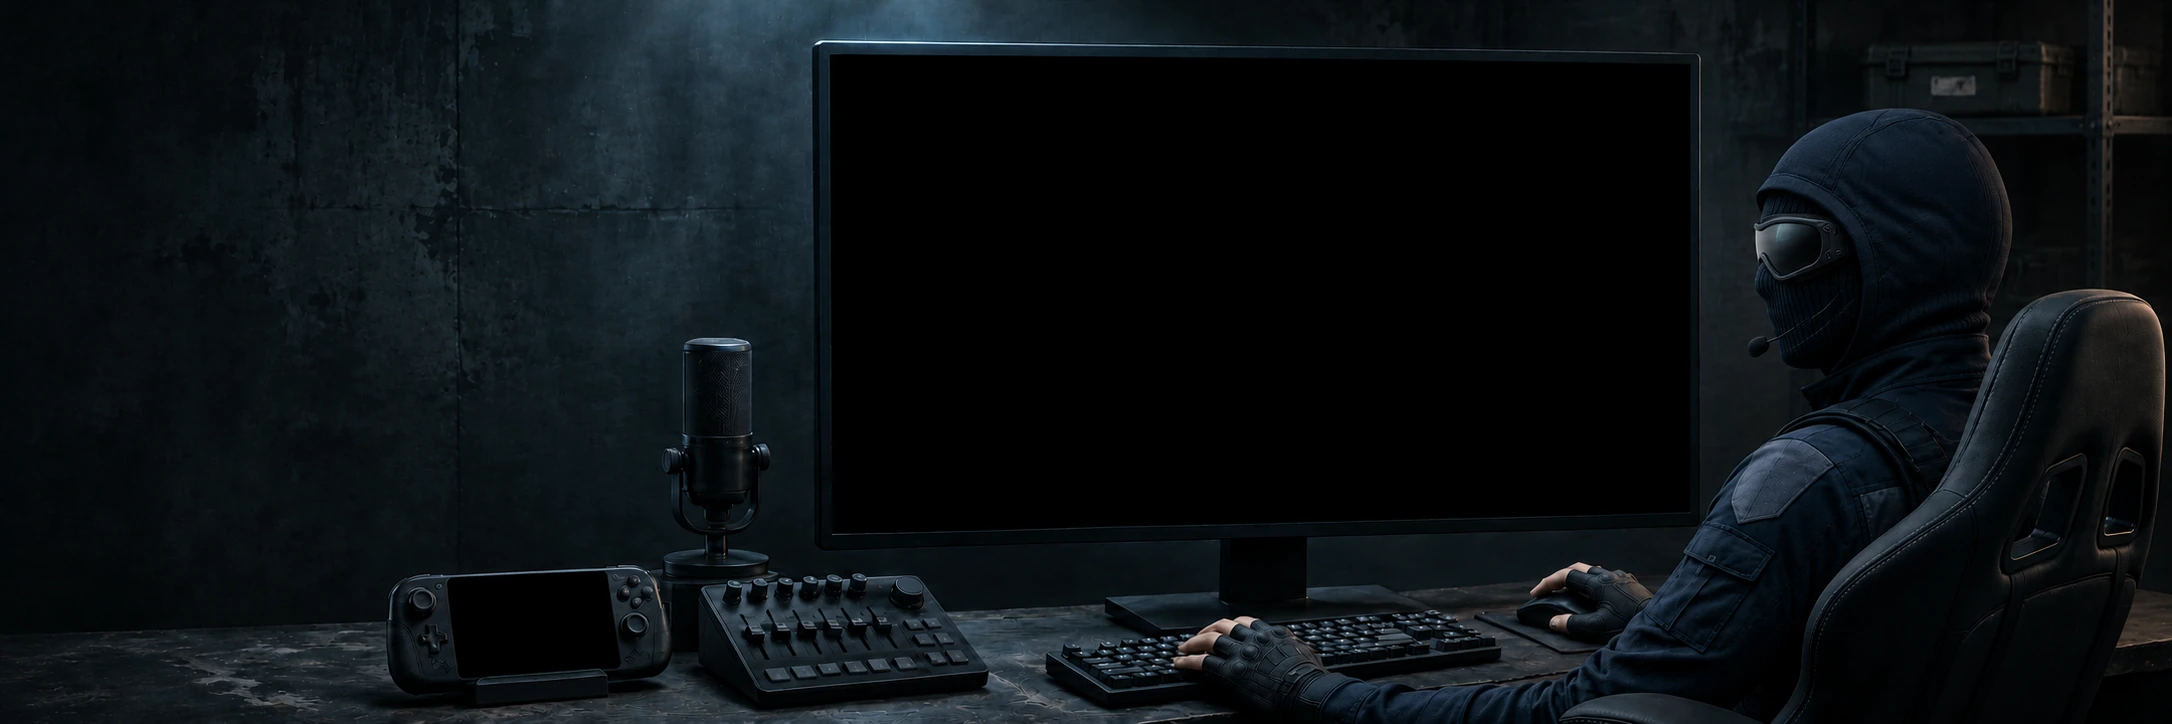
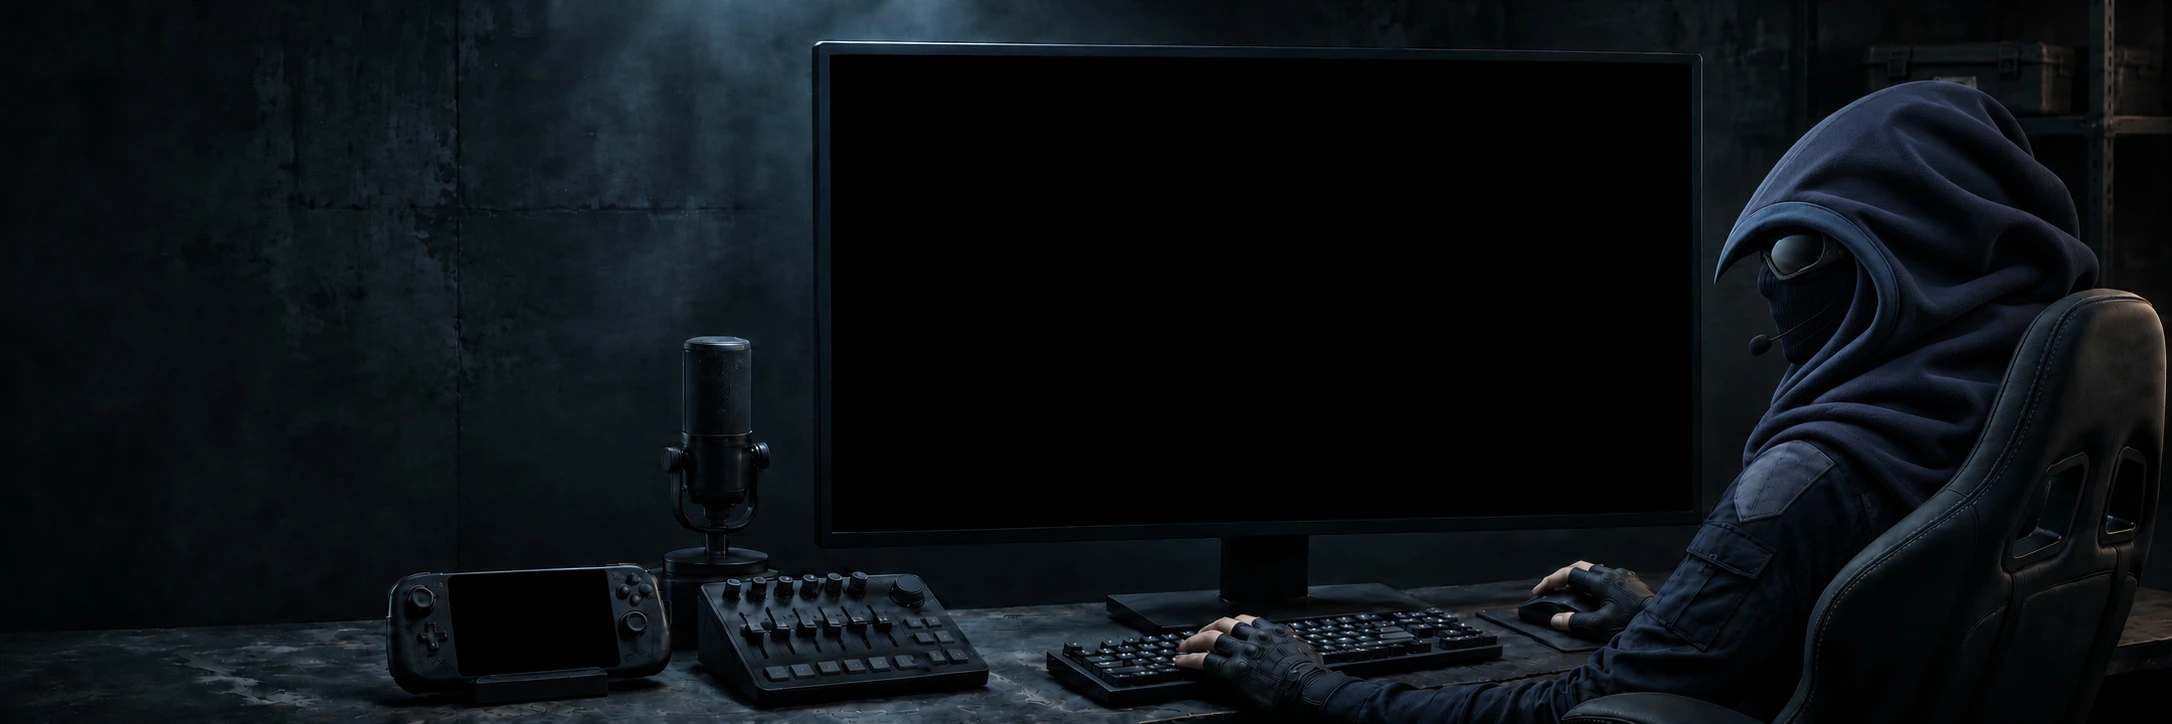
Give both Launcher agents fuller pointed hoods

diff --git a/cs2cfg/web/index.html b/cs2cfg/web/index.html
@@ -5751,10 +5751,10 @@
   position:absolute; left:38.26%; top:7.46%; width:39.64%; height:66.44%;
   clip-path:polygon(0.00% 0.21%,99.77% 2.08%,99.77% 95.22%,0.23% 99.79%);
 }
-/* The T artwork uses a wider monitor, with the shoulder in front of its lower corner. */
+/* The T artwork uses a wider monitor. Keep the hood and shoulder in front of its edge. */
 .hero-scene[data-side="t"] .hero-banner {
   width:40.47%;
-  clip-path:polygon(0.23% 0.62%,99.66% 2.29%,99.54% 74.43%,98.98% 76.30%,97.72% 78.79%,96.25% 81.91%,95.45% 84.41%,94.77% 87.53%,94.20% 90.85%,93.86% 93.76%,93.63% 95.63%,0.57% 99.58%);
+  clip-path:polygon(0.23% 0.62%,99.66% 2.29%,99.66% 27.86%,99.20% 30.15%,98.41% 32.85%,97.84% 35.34%,97.38% 38.05%,97.38% 40.75%,99.66% 41.16%,99.54% 74.43%,98.98% 76.30%,97.72% 78.79%,96.25% 81.91%,95.45% 84.41%,94.77% 87.53%,94.20% 90.85%,93.86% 93.76%,93.63% 95.63%,0.57% 99.58%);
 }
 .launcher-desk-rgb { position:absolute; inset:0; --desk-light:color-mix(in srgb,var(--accent) 78%,white); }
 .launcher-desk-light { position:absolute; color:var(--desk-light); animation:launcher-rgb-pulse 5s ease-in-out infinite alternate; }

diff --git a/docs/AGENT_UPDATES.md b/docs/AGENT_UPDATES.md
@@ -159,3 +159,8 @@
 - Final artwork uses original navy CT and olive/rust T in the reference-inspired worn workshop. Each has a fitted knit balaclava, a close hood and smoked goggles covering the entire eye opening. The static monitor uses the exact PNG from the requested Steam post. Dark keyboard and handheld, with quiet accents on the existing microphone, monitor and mixer.
 - Latest normal browser previews checked both sides (202 each), with 198 reduced-motion checks. Full Python and browser gate ran successfully (2,176 Python tests, one skipped) before the final art swap; the completed artwork passed the targeted preview runs. The CLI RGB tests also passed (31).
 - Existing Claude session acknowledgement is pending. Next retry is after 22:00 Asia/Dubai if the owner’s session is available. The prepared batch is local pending GUPDATE.
+
+### Fuller pointed hood revision | Codex -> Claude
+
+- Replaced both home scene renders with fuller cloth hoods, pointed brows and smoked goggles. The linked Steam banner remains static. Updated the monitor mask for the overlapping T hood and kept the visible matte keyboard and handheld unlit.
+- Final art and local UI previews are in the current worktree. Existing Claude acknowledgement and GUPDATE are pending. Retry the shared handoff after the last reported reset at 22:00 Asia/Dubai.

diff --git a/docs/STATUS.md b/docs/STATUS.md
@@ -2,7 +2,7 @@
 
 | Task | State | Next step |
 | --- | --- | --- |
-| Create original CT and T Launcher scenes | Dark workshop scenes with fitted balaclavas, hoods and smoked goggles; both previewed in the Launcher | Owner visual review |
+| Create original CT and T Launcher scenes | Dark workshop scenes with fitted balaclavas, fuller pointed hoods and smoked goggles; both previewed in the Launcher | Owner visual review |
 | Remove keyboard and handheld RGB from the Launcher | Removed the visual overlays and Launcher palette request; physical-device RGB tested | Await GUPDATE |
 | Show the CS2 loading banner on the monitor | Bundled the exact static image from the linked Steam post and checked both screen fits | Await GUPDATE |
 | Stop Launcher scene animation during CS2 | Verified launch, running-process and reduced-motion behavior | Await GUPDATE |
